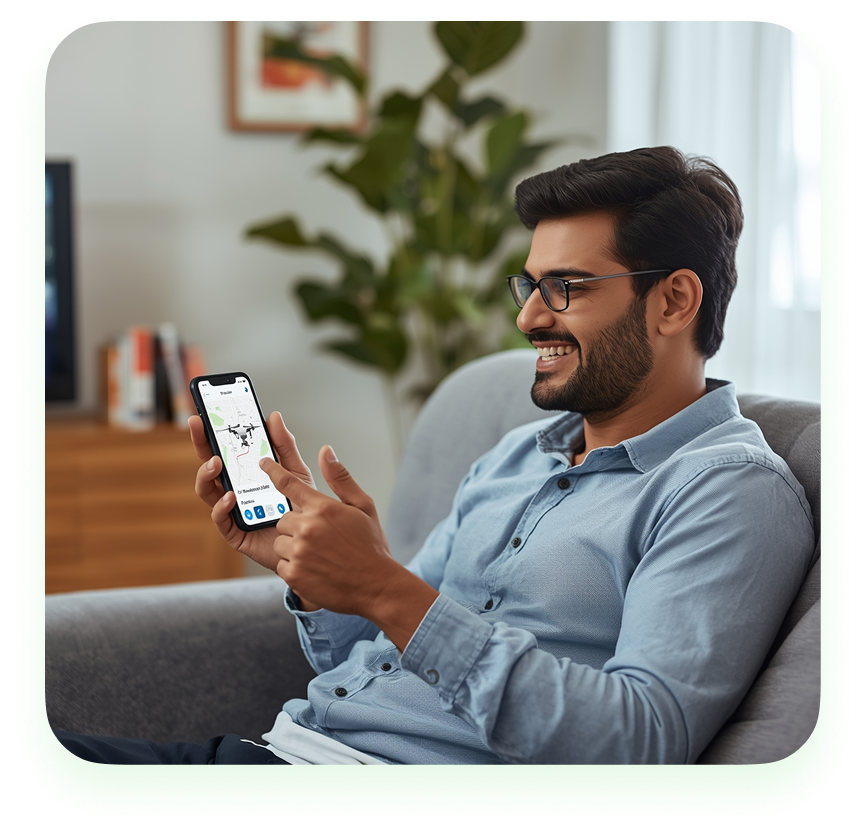
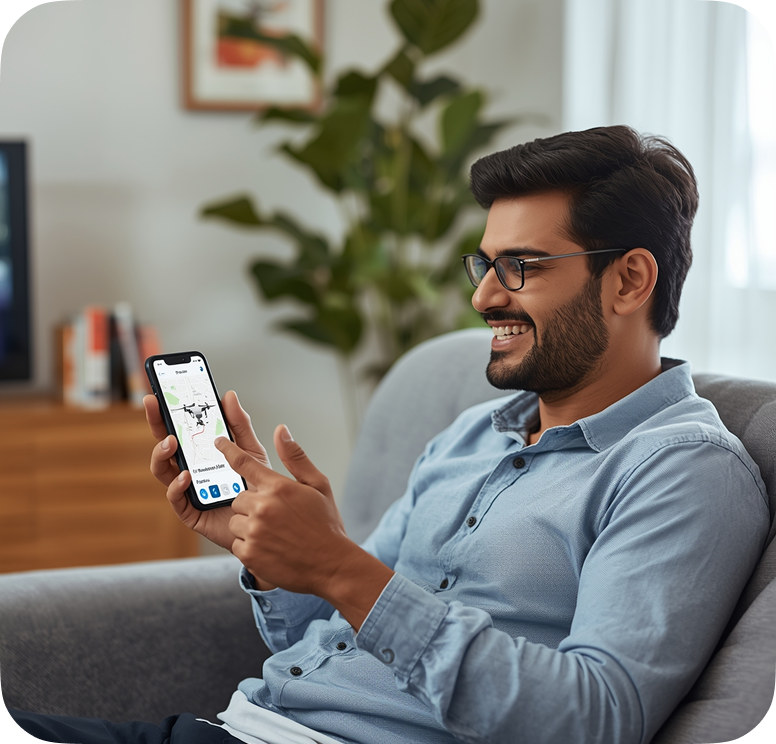
new update

diff --git a/lib/app/shared_screen/auth/user_type/widget/type_card.dart b/lib/app/shared_screen/auth/user_type/widget/type_card.dart
@@ -1,5 +1,8 @@
+import 'dart:ui';
+
 import 'package:flutter/material.dart';
 import 'package:prasad/app/data/app_colors.dart';
+import 'package:prasad/app/data/app_text_styles.dart';
 
 class TypeCard extends StatelessWidget {
   final String title;
@@ -20,20 +23,64 @@ class TypeCard extends StatelessWidget {
     return GestureDetector(
       onTap: onTap,
       child: Container(
-        width: 170,
-        height: 160,
         decoration: BoxDecoration(
           borderRadius: BorderRadius.circular(16),
           border: Border.all(
-            color: isSelected ? AppColors.primaryColor : Colors.transparent,
-            width: 2,
+              color: isSelected ? AppColors.primaryColor : Colors.transparent,
+              width: 1.5,
+            ),
+        ),
+        child: Container(
+          width: double.infinity,
+          height: 160,
+          decoration: BoxDecoration(
+            borderRadius: BorderRadius.circular(16),
+            image: DecorationImage(
+              image: AssetImage(image),
+              fit: BoxFit.cover,
+            ),
           ),
-          image: DecorationImage(
-            image: AssetImage(image),
-            fit: BoxFit.cover,
+          child: Column(
+            mainAxisAlignment: MainAxisAlignment.spaceBetween,
+            children: [
+              isSelected
+                  ? Align(
+                      alignment: AlignmentGeometry.topRight,
+                      child: Padding(
+                        padding: const EdgeInsets.all(8.0),
+                        child: Icon(
+                          Icons.check_circle,
+                          color: AppColors.primaryColor,
+                        ),
+                      ),
+                    )
+                  : SizedBox(),
+              ClipRRect(
+                borderRadius: const BorderRadius.only(
+                  bottomLeft: Radius.circular(16),
+                  bottomRight: Radius.circular(16),
+                ),
+                child: BackdropFilter(
+                  filter: ImageFilter.blur(sigmaX: 10, sigmaY: 10),
+                  child: Container(
+                    width: double.infinity,
+                    color: Colors.white38, // optional overlay color
+                    alignment: Alignment.center,
+                    child: Padding(
+                      padding: const EdgeInsets.all(6.0),
+                      child: Text(
+                        title,
+                        style: AppTextStyles.medium16.copyWith(
+                          color: AppColors.whiteColor,
+                        ),
+                      ),
+                    ),
+                  ),
+                ),
+              )
+            ],
           ),
         ),
-        child: Container()
       ),
     );
   }

diff --git a/lib/app/shared_screen/auth/user_type/views/user_type_view.dart b/lib/app/shared_screen/auth/user_type/views/user_type_view.dart
@@ -16,25 +16,53 @@ class UserTypeView extends GetView<UserTypeController> {
   @override
   Widget build(BuildContext context) {
     return Scaffold(
-      body: Center(
-        child: Column(
-          crossAxisAlignment: CrossAxisAlignment.center,
-          children: [
-            Text('User Type Selection', style: AppTextStyles.bold28),
-            SizedBox(height: 10.h),
-            Row(
+      body: SafeArea(
+        child: Center(
+          child: Padding(
+            padding: const EdgeInsets.all(16.0),
+            child: Column(
+              crossAxisAlignment: CrossAxisAlignment.center,
+              spacing: 30.h,
               children: [
+                SizedBox(height: 20.h,),
+                Text('User Type Selection', style: AppTextStyles.bold28),
+                Row(
+                  mainAxisSize: MainAxisSize.min,
+                  children: [
+                    Flexible(
+                      child: TypeCard(
+                        title: "Customer",
+                        image: ImagePath.customerType,
+                        isSelected: true,
+                        onTap: () {
+                          Get.toNamed(Routes.LOGIN);
+                        },
+                      ),
+                    ),
+                    SizedBox(width: 10.w),
+                    Flexible(
+                      child: TypeCard(
+                        title: "Field Agent",
+                        image: ImagePath.customerType,
+                        isSelected: false,
+                        onTap: () {
+                          print("Customer selected!");
+                        },
+                      ),
+                    ),
+                  ],
+                ),
                 TypeCard(
-                  title: "Customer",
-                  image: ImagePath.customerType,
-                  isSelected: true,
-                  onTap: () {
-                    print("Customer selected!");
+                  title: "Drone Operator",
+                  image: ImagePath.operatorType,
+                  isSelected: false,
+                  onTap: (){
+
                   },
-                )
+                ),
               ],
             ),
-          ],
+          ),
         ),
       ),
     );

diff --git a/lib/app/shared_screen/auth/login/views/login_view.dart b/lib/app/shared_screen/auth/login/views/login_view.dart
@@ -1,22 +1,45 @@
 import 'package:flutter/material.dart';
+import 'package:flutter_screenutil/flutter_screenutil.dart';
 
 import 'package:get/get.dart';
+import 'package:prasad/app/data/app_colors.dart';
+import 'package:prasad/app/data/app_text_styles.dart';
+import 'package:prasad/app/data/image_path.dart';
 
 import '../controllers/login_controller.dart';
 
 class LoginView extends GetView<LoginController> {
   const LoginView({super.key});
+
   @override
   Widget build(BuildContext context) {
     return Scaffold(
-      appBar: AppBar(
-        title: const Text('LoginView'),
-        centerTitle: true,
-      ),
-      body: const Center(
-        child: Text(
-          'LoginView is working',
-          style: TextStyle(fontSize: 20),
+      body: SafeArea(
+        child: Padding(
+          padding: const EdgeInsets.all(16.0),
+          child: Column(
+            crossAxisAlignment: CrossAxisAlignment.center,
+            children: [
+              SizedBox(height: 30.w,),
+              Text(
+                'Welcome Back!',
+                style: AppTextStyles.bold40.copyWith(color: AppColors.primaryColor),
+              ),
+              Container(
+                width: 240,
+                height: 240,
+                decoration: ShapeDecoration(
+                  image: DecorationImage(
+                    image: AssetImage(ImagePath.login_logo),
+                    fit: BoxFit.cover,
+                  ),
+                  shape: RoundedRectangleBorder(
+                    borderRadius: BorderRadius.circular(30000),
+                  ),
+                ),
+              )
+            ],
+          ),
         ),
       ),
     );

diff --git a/lib/app/data/image_path.dart b/lib/app/data/image_path.dart
@@ -10,7 +10,6 @@ class ImagePath {
   static const String serviceIcon = '$iconUrl/service.png';
   static const String paymentIcon = '$iconUrl/moneyIcon.png';
   static const String fleetIcon = '$iconUrl/fleet.png';
-  static const String customerType ='$baseUrl/customer_type.png';
   static const String fieldAgentType ='$baseUrl/field_agent_type.png';
   static const String onboarding1 ='$baseUrl/onboarding1.png';
   static const String onboarding2 ='$baseUrl/onboarding2.png';
@@ -18,4 +17,6 @@ class ImagePath {
   static const String operatorType ='$baseUrl/operator_type.png';
   static const String farmerPng ='$baseUrl/farmer.png';
   static const String servicePng ='$baseUrl/service.png';
+  static const String customerType ='$baseUrl/customer_type.png';
+  static const String login_logo ='$baseUrl/login_logo.png';
 }

diff --git a/lib/app/routes/app_pages.dart b/lib/app/routes/app_pages.dart
@@ -50,7 +50,7 @@ part 'app_routes.dart';
 class AppPages {
   AppPages._();
 
-  static const INITIAL = Routes.OPERATOR_BOTTOM_NAVI_BAR;
+  static const INITIAL = Routes.ONBOARDING1;
 
   static final routes = [
     GetPage(